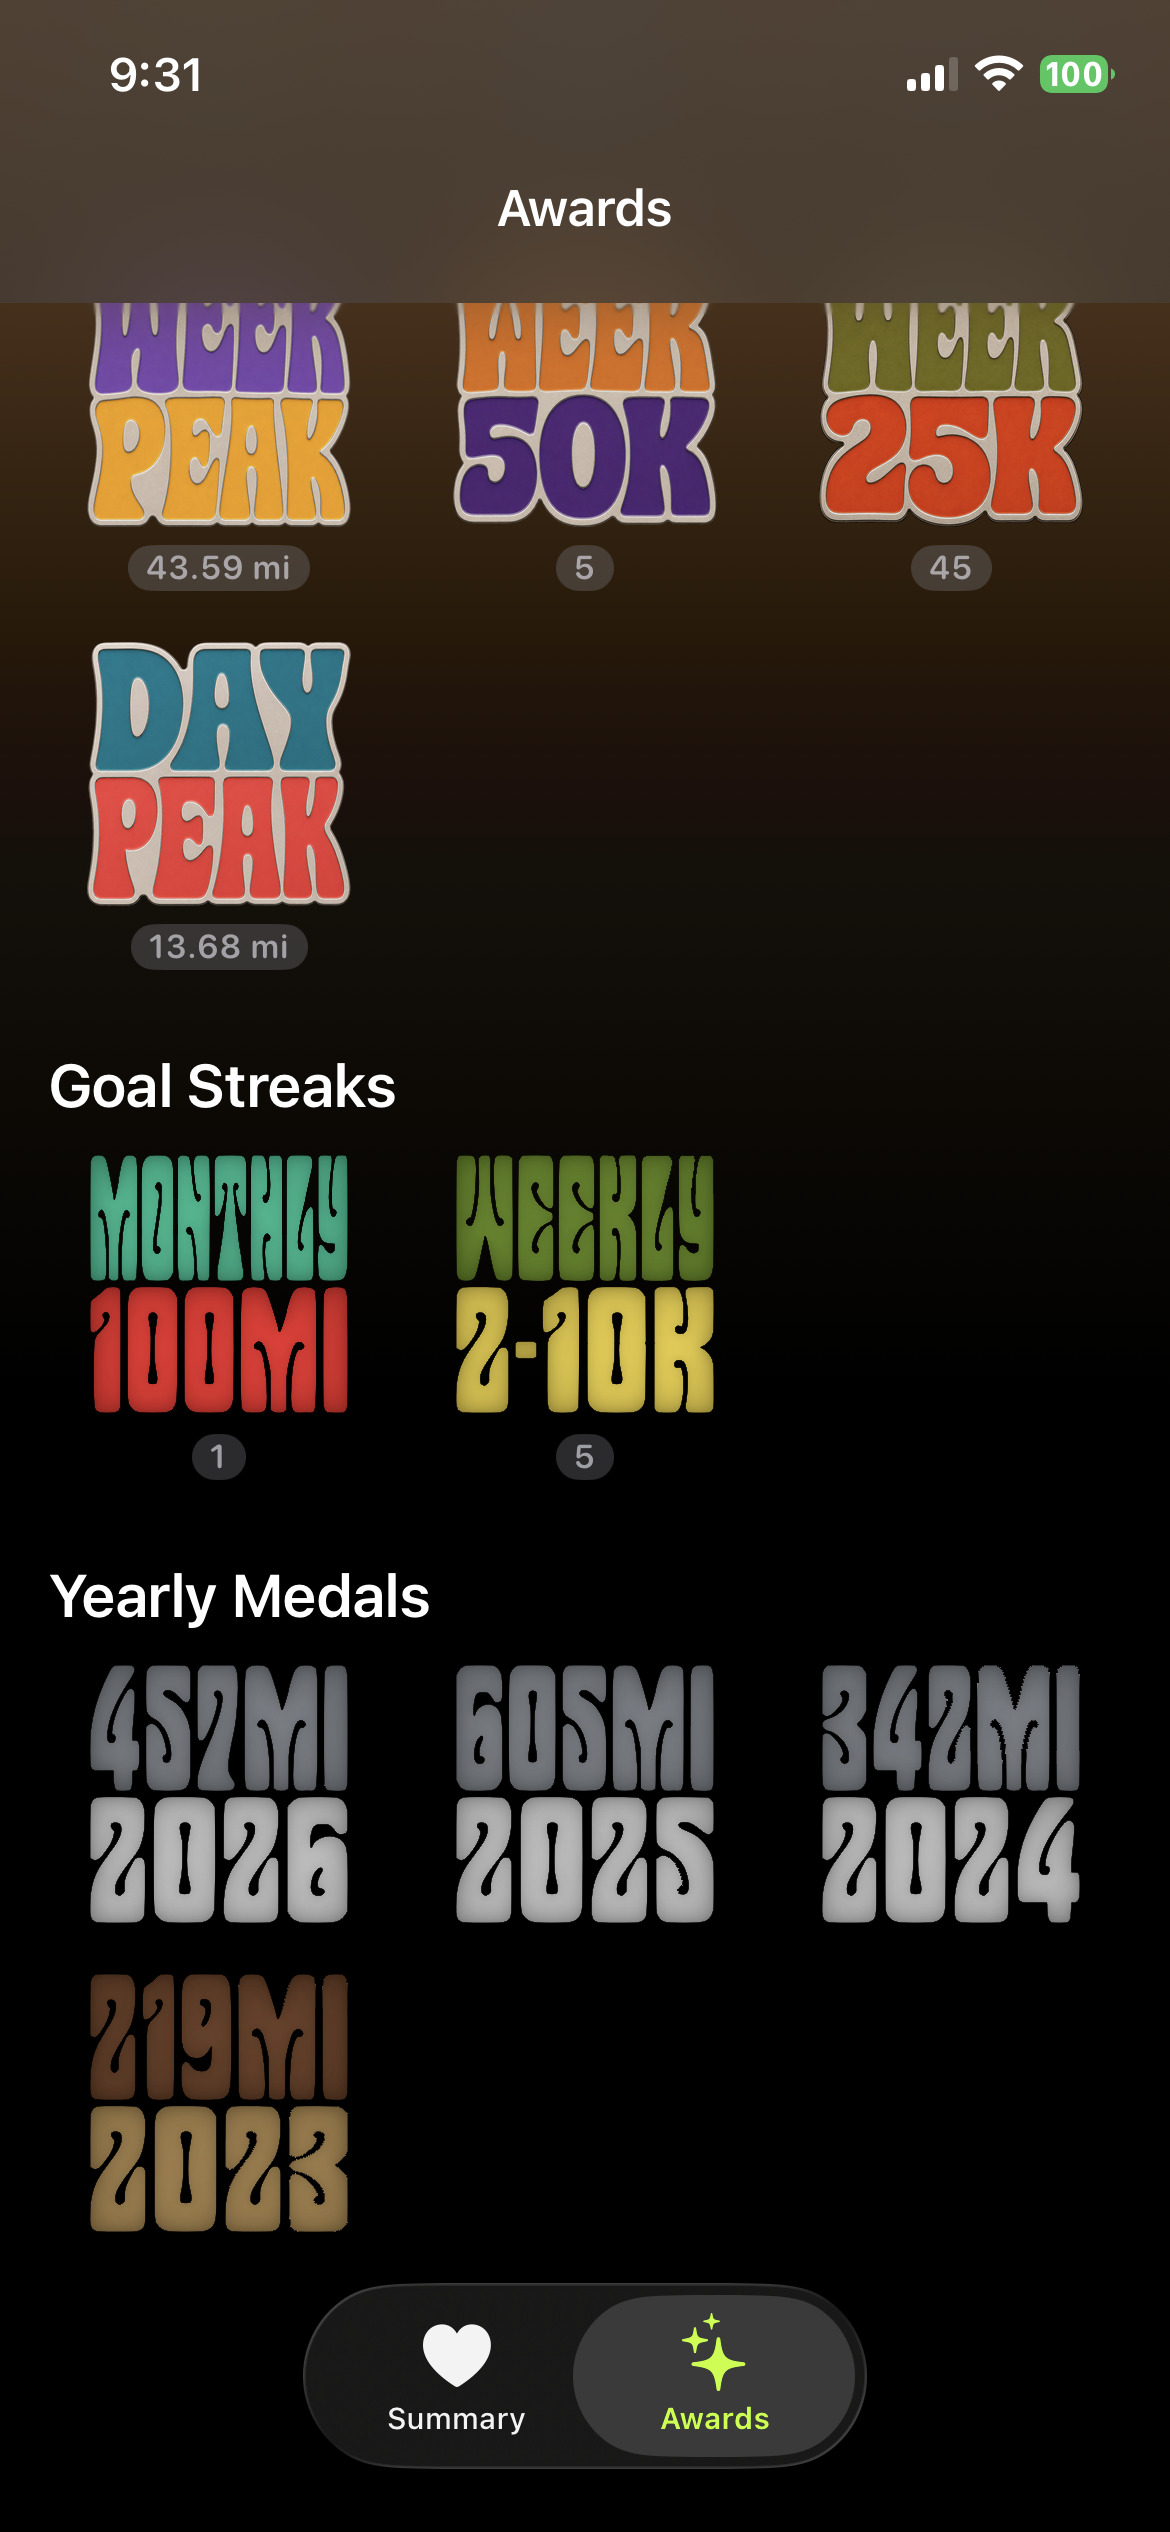
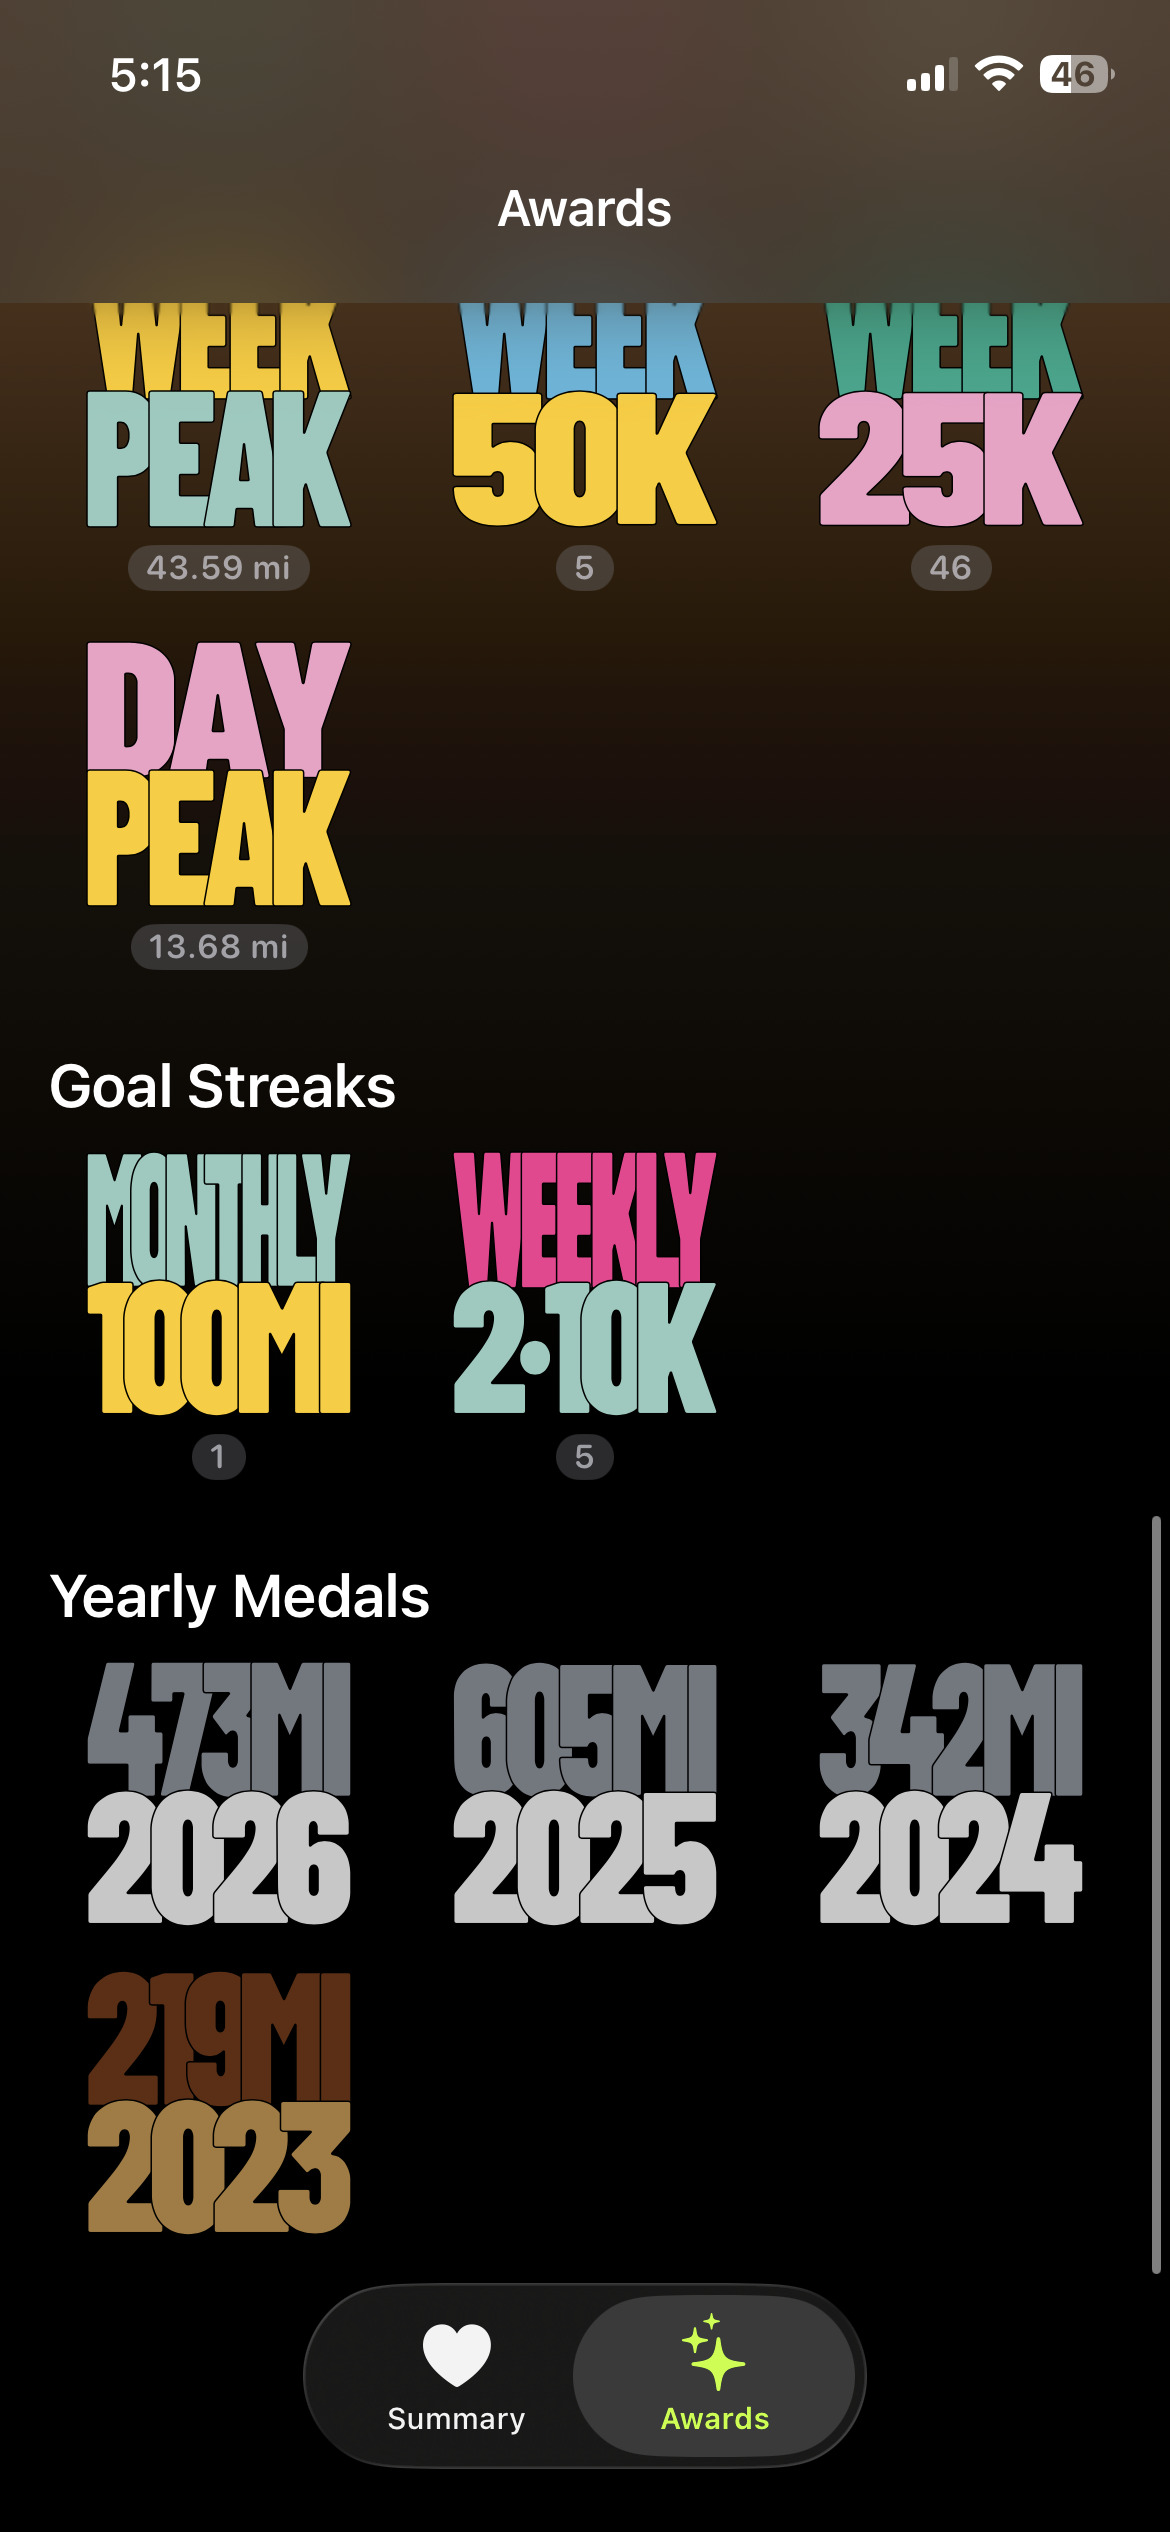
Update misc.

diff --git a/awards.html b/awards.html
@@ -627,42 +627,43 @@
       <div class="section-head">
         <h2>개인 기록 배지</h2>
         <p>가장 빠른 표준 거리, 가장 긴 러닝, 가장 높은 상승 고도처럼 한 번의 러닝이 남긴 최고 기록을 모읍니다. 세션 안의 가장 빠른 표준 거리 구간도 개인 기록 후보가 됩니다.</p>
+        <p>개인 기록과 거리 완주 배지는 타이포그래픽 스타일과 히피 스타일로 제공되며, 아래 예시는 히피 스타일 배지입니다.</p>
       </div>
 
       <div class="badge-grid">
-        <article class="badge-card"><img src="assets/badges/HippieBadgeLongestRun.png" alt="Longest Run 배지" /><strong>Longest Run</strong><span>최장 거리</span></article>
         <article class="badge-card"><img src="assets/badges/HippieBadgeBiggestClimb.png" alt="Biggest Climb 배지" /><strong>Biggest Climb</strong><span>최고 상승 고도</span></article>
-        <article class="badge-card"><img src="assets/badges/HippieBadgeFastest1MI.png" alt="Fastest 1 Mile 배지" /><strong>Fastest 1 Mile</strong><span>1마일 최고 기록</span></article>
-        <article class="badge-card"><img src="assets/badges/HippieBadgeFastest3K.png" alt="Fastest 3K 배지" /><strong>Fastest 3K</strong><span>3K 최고 기록</span></article>
-        <article class="badge-card"><img src="assets/badges/HippieBadgeFastest5K.png" alt="Fastest 5K 배지" /><strong>Fastest 5K</strong><span>5K 최고 기록</span></article>
-        <article class="badge-card"><img src="assets/badges/HippieBadgeFastest5MI.png" alt="Fastest 5 Mile 배지" /><strong>Fastest 5 Mile</strong><span>5마일 최고 기록</span></article>
-        <article class="badge-card"><img src="assets/badges/HippieBadgeFastest10K.png" alt="Fastest 10K 배지" /><strong>Fastest 10K</strong><span>10K 최고 기록</span></article>
-        <article class="badge-card"><img src="assets/badges/HippieBadgeFastest10MI.png" alt="Fastest 10 Mile 배지" /><strong>Fastest 10 Mile</strong><span>10마일 최고 기록</span></article>
-        <article class="badge-card"><img src="assets/badges/HippieBadgeFastestHalf.png" alt="Fastest Half Marathon 배지" /><strong>Fastest Half</strong><span>하프 최고 기록</span></article>
-        <article class="badge-card"><img src="assets/badges/HippieBadgeFastest20MI.png" alt="Fastest 20 Mile 배지" /><strong>Fastest 20 Mile</strong><span>20마일 최고 기록</span></article>
-        <article class="badge-card"><img src="assets/badges/HippieBadgeFastestFull.png" alt="Fastest Marathon 배지" /><strong>Fastest Full</strong><span>마라톤 최고 기록</span></article>
-        <article class="badge-card"><img src="assets/badges/HippieBadgeFastest50K.png" alt="Fastest 50K 배지" /><strong>Fastest 50K</strong><span>50K 최고 기록</span></article>
-        <article class="badge-card"><img src="assets/badges/HippieBadgeFastest50MI.png" alt="Fastest 50 Mile 배지" /><strong>Fastest 50 Mile</strong><span>50마일 최고 기록</span></article>
-        <article class="badge-card"><img src="assets/badges/HippieBadgeFastest100K.png" alt="Fastest 100K 배지" /><strong>Fastest 100K</strong><span>100K 최고 기록</span></article>
+        <article class="badge-card"><img src="assets/badges/HippieBadgeLongestRun.png" alt="Longest Run 배지" /><strong>Longest Run</strong><span>최장 거리</span></article>
         <article class="badge-card"><img src="assets/badges/HippieBadgeFastest100MI.png" alt="Fastest 100 Mile 배지" /><strong>Fastest 100 Mile</strong><span>100마일 최고 기록</span></article>
+        <article class="badge-card"><img src="assets/badges/HippieBadgeFastest100K.png" alt="Fastest 100K 배지" /><strong>Fastest 100K</strong><span>100K 최고 기록</span></article>
+        <article class="badge-card"><img src="assets/badges/HippieBadgeFastest50MI.png" alt="Fastest 50 Mile 배지" /><strong>Fastest 50 Mile</strong><span>50마일 최고 기록</span></article>
+        <article class="badge-card"><img src="assets/badges/HippieBadgeFastest50K.png" alt="Fastest 50K 배지" /><strong>Fastest 50K</strong><span>50K 최고 기록</span></article>
+        <article class="badge-card"><img src="assets/badges/HippieBadgeFastestFull.png" alt="Fastest Marathon 배지" /><strong>Fastest Full</strong><span>마라톤 최고 기록</span></article>
+        <article class="badge-card"><img src="assets/badges/HippieBadgeFastest20MI.png" alt="Fastest 20 Mile 배지" /><strong>Fastest 20 Mile</strong><span>20마일 최고 기록</span></article>
+        <article class="badge-card"><img src="assets/badges/HippieBadgeFastestHalf.png" alt="Fastest Half Marathon 배지" /><strong>Fastest Half</strong><span>하프 최고 기록</span></article>
+        <article class="badge-card"><img src="assets/badges/HippieBadgeFastest10MI.png" alt="Fastest 10 Mile 배지" /><strong>Fastest 10 Mile</strong><span>10마일 최고 기록</span></article>
+        <article class="badge-card"><img src="assets/badges/HippieBadgeFastest10K.png" alt="Fastest 10K 배지" /><strong>Fastest 10K</strong><span>10K 최고 기록</span></article>
+        <article class="badge-card"><img src="assets/badges/HippieBadgeFastest5MI.png" alt="Fastest 5 Mile 배지" /><strong>Fastest 5 Mile</strong><span>5마일 최고 기록</span></article>
+        <article class="badge-card"><img src="assets/badges/HippieBadgeFastest5K.png" alt="Fastest 5K 배지" /><strong>Fastest 5K</strong><span>5K 최고 기록</span></article>
+        <article class="badge-card"><img src="assets/badges/HippieBadgeFastest3K.png" alt="Fastest 3K 배지" /><strong>Fastest 3K</strong><span>3K 최고 기록</span></article>
+        <article class="badge-card"><img src="assets/badges/HippieBadgeFastest1MI.png" alt="Fastest 1 Mile 배지" /><strong>Fastest 1 Mile</strong><span>1마일 최고 기록</span></article>
       </div>
 
       <div class="subsection">
         <h3>거리 완주 배지</h3>
         <div class="badge-grid">
-          <article class="badge-card"><img src="assets/badges/HippieBadgeRun1MI.png" alt="1 Mile Run 배지" /><strong>1 Mile Run</strong><span>1마일 완주</span></article>
-          <article class="badge-card"><img src="assets/badges/HippieBadgeRun3K.png" alt="3K Run 배지" /><strong>3K Run</strong><span>3K 완주</span></article>
-          <article class="badge-card"><img src="assets/badges/HippieBadgeRun5K.png" alt="5K Run 배지" /><strong>5K Run</strong><span>5K 완주</span></article>
-          <article class="badge-card"><img src="assets/badges/HippieBadgeRun5MI.png" alt="5 Mile Run 배지" /><strong>5 Mile Run</strong><span>5마일 완주</span></article>
-          <article class="badge-card"><img src="assets/badges/HippieBadgeRun10K.png" alt="10K Run 배지" /><strong>10K Run</strong><span>10K 완주</span></article>
-          <article class="badge-card"><img src="assets/badges/HippieBadgeRun10MI.png" alt="10 Mile Run 배지" /><strong>10 Mile Run</strong><span>10마일 완주</span></article>
-          <article class="badge-card"><img src="assets/badges/HippieBadgeRunHalf.png" alt="Half Marathon Run 배지" /><strong>Half Run</strong><span>하프 완주</span></article>
-          <article class="badge-card"><img src="assets/badges/HippieBadgeRun20MI.png" alt="20 Mile Run 배지" /><strong>20 Mile Run</strong><span>20마일 완주</span></article>
-          <article class="badge-card"><img src="assets/badges/HippieBadgeRunFull.png" alt="Marathon Run 배지" /><strong>Full Run</strong><span>마라톤 완주</span></article>
-          <article class="badge-card"><img src="assets/badges/HippieBadgeRun50K.png" alt="50K Run 배지" /><strong>50K Run</strong><span>50K 완주</span></article>
-          <article class="badge-card"><img src="assets/badges/HippieBadgeRun50MI.png" alt="50 Mile Run 배지" /><strong>50 Mile Run</strong><span>50마일 완주</span></article>
-          <article class="badge-card"><img src="assets/badges/HippieBadgeRun100K.png" alt="100K Run 배지" /><strong>100K Run</strong><span>100K 완주</span></article>
           <article class="badge-card"><img src="assets/badges/HippieBadgeRun100MI.png" alt="100 Mile Run 배지" /><strong>100 Mile Run</strong><span>100마일 완주</span></article>
+          <article class="badge-card"><img src="assets/badges/HippieBadgeRun100K.png" alt="100K Run 배지" /><strong>100K Run</strong><span>100K 완주</span></article>
+          <article class="badge-card"><img src="assets/badges/HippieBadgeRun50MI.png" alt="50 Mile Run 배지" /><strong>50 Mile Run</strong><span>50마일 완주</span></article>
+          <article class="badge-card"><img src="assets/badges/HippieBadgeRun50K.png" alt="50K Run 배지" /><strong>50K Run</strong><span>50K 완주</span></article>
+          <article class="badge-card"><img src="assets/badges/HippieBadgeRunFull.png" alt="Marathon Run 배지" /><strong>Full Run</strong><span>마라톤 완주</span></article>
+          <article class="badge-card"><img src="assets/badges/HippieBadgeRun20MI.png" alt="20 Mile Run 배지" /><strong>20 Mile Run</strong><span>20마일 완주</span></article>
+          <article class="badge-card"><img src="assets/badges/HippieBadgeRunHalf.png" alt="Half Marathon Run 배지" /><strong>Half Run</strong><span>하프 완주</span></article>
+          <article class="badge-card"><img src="assets/badges/HippieBadgeRun10MI.png" alt="10 Mile Run 배지" /><strong>10 Mile Run</strong><span>10마일 완주</span></article>
+          <article class="badge-card"><img src="assets/badges/HippieBadgeRun10K.png" alt="10K Run 배지" /><strong>10K Run</strong><span>10K 완주</span></article>
+          <article class="badge-card"><img src="assets/badges/HippieBadgeRun5MI.png" alt="5 Mile Run 배지" /><strong>5 Mile Run</strong><span>5마일 완주</span></article>
+          <article class="badge-card"><img src="assets/badges/HippieBadgeRun5K.png" alt="5K Run 배지" /><strong>5K Run</strong><span>5K 완주</span></article>
+          <article class="badge-card"><img src="assets/badges/HippieBadgeRun3K.png" alt="3K Run 배지" /><strong>3K Run</strong><span>3K 완주</span></article>
+          <article class="badge-card"><img src="assets/badges/HippieBadgeRun1MI.png" alt="1 Mile Run 배지" /><strong>1 Mile Run</strong><span>1마일 완주</span></article>
         </div>
       </div>
     </div>
@@ -857,6 +858,7 @@
         "배지 보기": { en: "View Badges", ja: "バッジを見る" },
         "개인 기록 배지": { en: "Personal Record Badges", ja: "自己記録バッジ" },
         "가장 빠른 표준 거리, 가장 긴 러닝, 가장 높은 상승 고도처럼 한 번의 러닝이 남긴 최고 기록을 모읍니다. 세션 안의 가장 빠른 표준 거리 구간도 개인 기록 후보가 됩니다.": { en: "Collect the best results from a run, such as fastest standard distance, longest run, and highest elevation gain. The fastest standard-distance segment inside a session can also count as a personal record candidate.", ja: "最速の標準距離、最長ラン、最大獲得標高など、1回のランで残した最高記録をまとめます。セッション内の最速の標準距離区間も自己記録の候補になります。" },
+        "개인 기록과 거리 완주 배지는 타이포그래픽 스타일과 히피 스타일로 제공되며, 아래 예시는 히피 스타일 배지입니다.": { en: "Personal record and distance completion badges are available in both typographic and hippie styles; the examples below show the hippie style.", ja: "自己記録バッジと距離完走バッジはタイポグラフィックスタイルとヒッピースタイルの両方で提供され、以下の例ではヒッピースタイルを表示しています。" },
         "거리 완주 배지": { en: "Distance Completion Badges", ja: "距離完走バッジ" },
         "마일리지 마일스톤": { en: "Mileage Milestones", ja: "マイレージマイルストーン" },
         "특정 주나 월에 달성한 누적 거리는 기간 배지로 남습니다.": { en: "Weekly and monthly totals are saved as period badges.", ja: "特定の週や月に達成した累積距離は期間バッジとして残ります。" },
